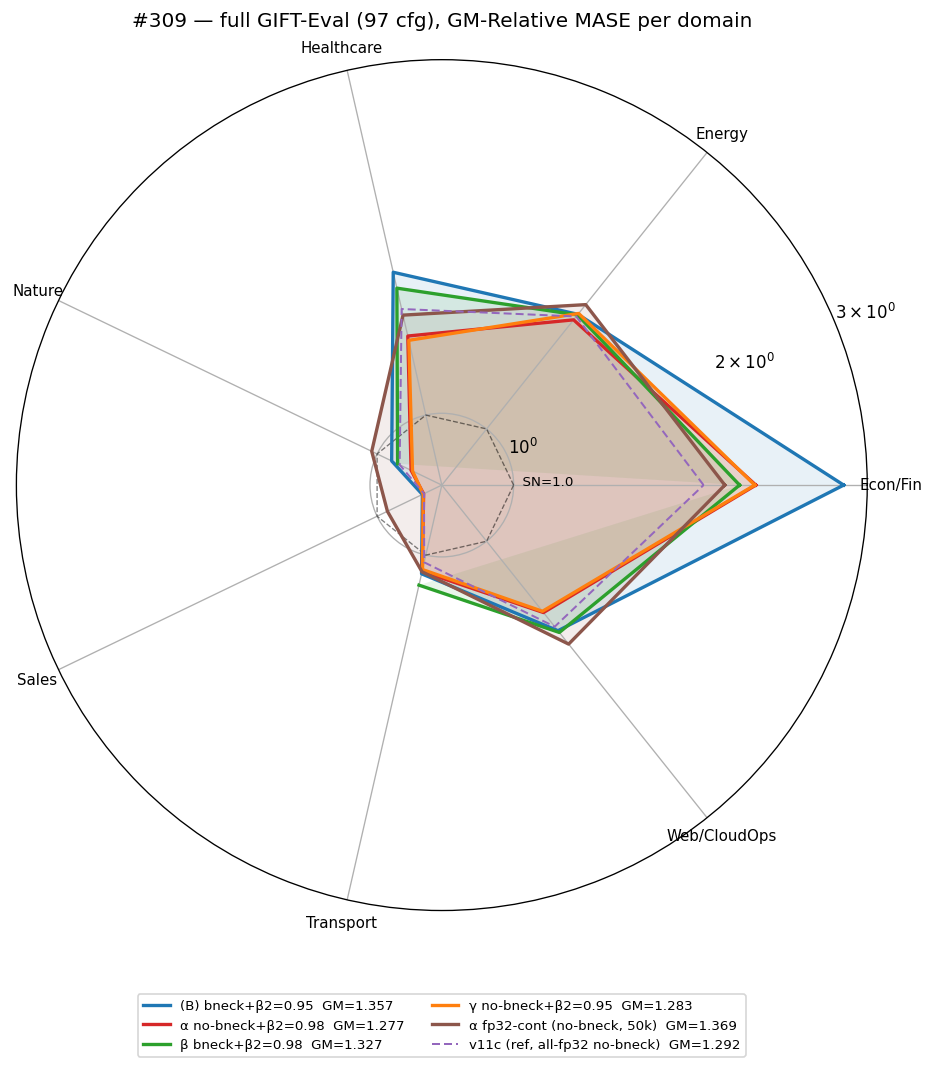
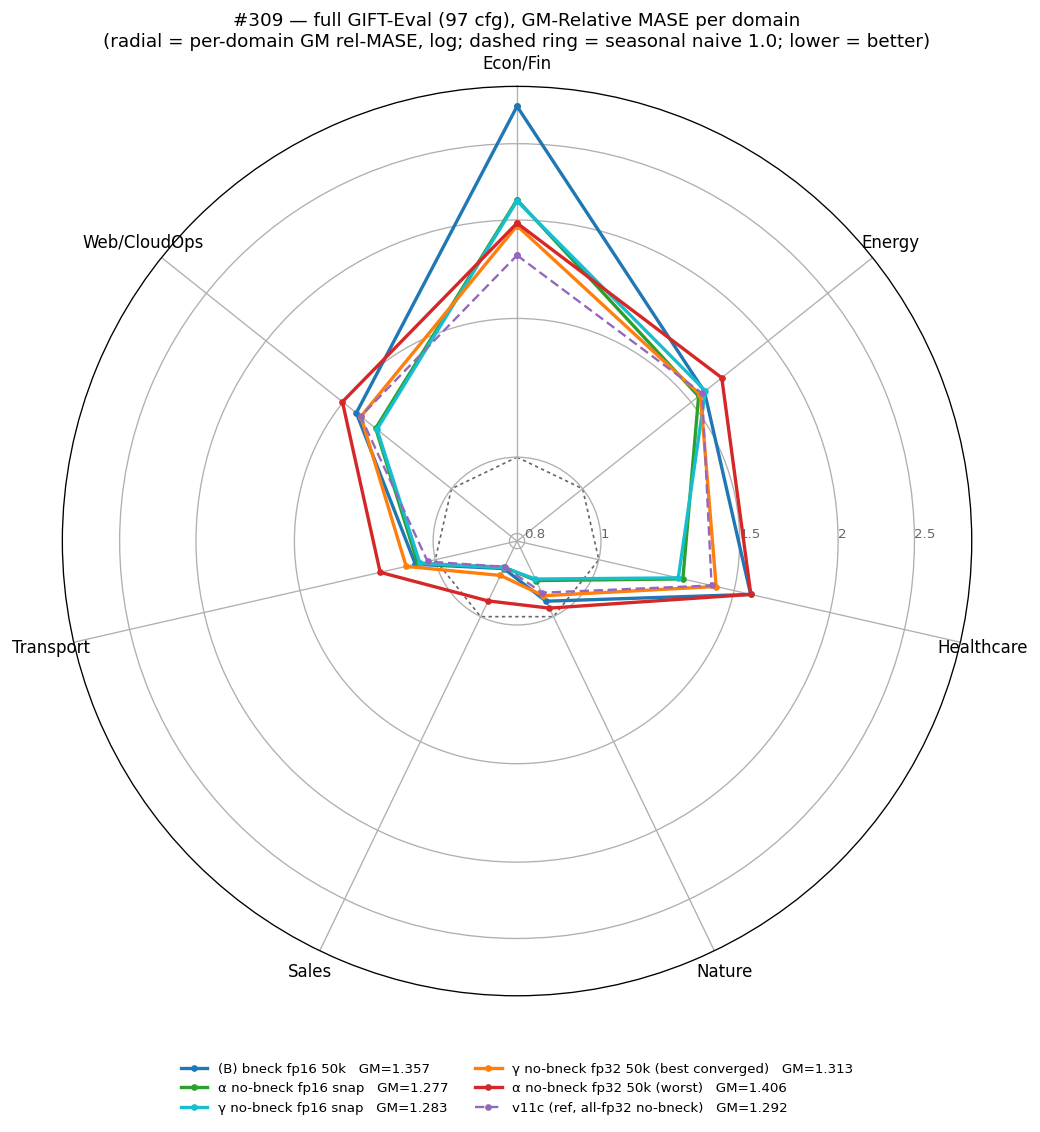
exp(#309): curate radar to corrected τ=0.1 arms (snapshot vs fp32 vs v11c)
Drop the buggy resume-from-step-900 α-fp32cont; show the clean set:
(B) bneck, α/γ fp16 pre-divergence snapshots, γ/α fresh-fp32-50k,
v11c ref. Curves now contrast fp16 (diverges ~step 900) vs fresh-fp32
(stable to 50k). Full matrix is in gm_summary.png.

diff --git a/experiments/2026-05-20_bottleneck_beta2_confound/scripts/plot_results.py b/experiments/2026-05-20_bottleneck_beta2_confound/scripts/plot_results.py
@@ -20,32 +20,35 @@ V11C = "/home/jupyter/contrastive-forecasting/experiments/2026-05-11_exp_encoder
 OUT = f"{MAIN}/plots"
 os.makedirs(OUT, exist_ok=True)
 
+# Curated τ=0.1 set: snapshot (fp16, pre-divergence) vs converged
+# (fp32, 50k) vs the (B) bottleneck baseline and v11c reference. The
+# full τ×β2×precision matrix lives in plots/gm_summary.png.
 # label, colour, losses_csv, full_eval_dir, ls, lw, fill
 ARMS = [
-    ("(B) bneck+β2=0.95", "#1f77b4",
+    ("(B) bneck fp16 50k", "#1f77b4",
      f"{CL_ABL}/runs/cl_hh_50k_losses.csv",
      f"{CL_ABL}/results/gift_eval_full_cl_hh_50k",
-     "-", 2.0, 0.10),
-    ("α no-bneck+β2=0.98", "#d62728",
+     "-", 2.0, 0.0),
+    ("α no-bneck fp16 snap", "#2ca02c",
      f"{MAIN}/runs/bb_alpha_50k_losses.csv",
      f"{MAIN}/results/gift_eval_full_bb_alpha_50k",
-     "-", 2.0, 0.10),
-    ("β bneck+β2=0.98", "#2ca02c",
-     f"{MAIN}/runs/bb_beta_50k_losses.csv",
-     f"{MAIN}/results/gift_eval_full_bb_beta_50k",
-     "-", 2.0, 0.10),
-    ("γ no-bneck+β2=0.95", "#ff7f0e",
+     "-", 2.0, 0.0),
+    ("γ no-bneck fp16 snap", "#17becf",
      f"{MAIN}/runs/bb_gamma_50k_losses.csv",
      f"{MAIN}/results/gift_eval_full_bb_gamma_50k",
-     "-", 2.0, 0.10),
-    ("α fp32-cont (no-bneck, 50k)", "#8c564b",
-     f"{MAIN}/runs/bb_alpha_fp32cont_50k_losses.csv",
-     f"{MAIN}/results/gift_eval_full_bb_alpha_fp32cont_50k",
-     "-", 2.0, 0.10),
+     "-", 2.0, 0.0),
+    ("γ no-bneck fp32 50k (best converged)", "#ff7f0e",
+     f"{MAIN}/runs/bb_gamma_tau01_fp32_50k_losses.csv",
+     f"{MAIN}/results/gift_eval_full_bb_gamma_tau01_fp32_50k",
+     "-", 2.0, 0.0),
+    ("α no-bneck fp32 50k (worst)", "#d62728",
+     f"{MAIN}/runs/bb_alpha_tau01_fp32_50k_losses.csv",
+     f"{MAIN}/results/gift_eval_full_bb_alpha_tau01_fp32_50k",
+     "-", 2.0, 0.0),
     ("v11c (ref, all-fp32 no-bneck)", "#9467bd",
      None,
      V11C,
-     (0, (4, 2)), 1.2, 0.0),  # thin purple dashed, no fill
+     (0, (4, 2)), 1.4, 0.0),  # thin purple dashed
 ]
 
 
